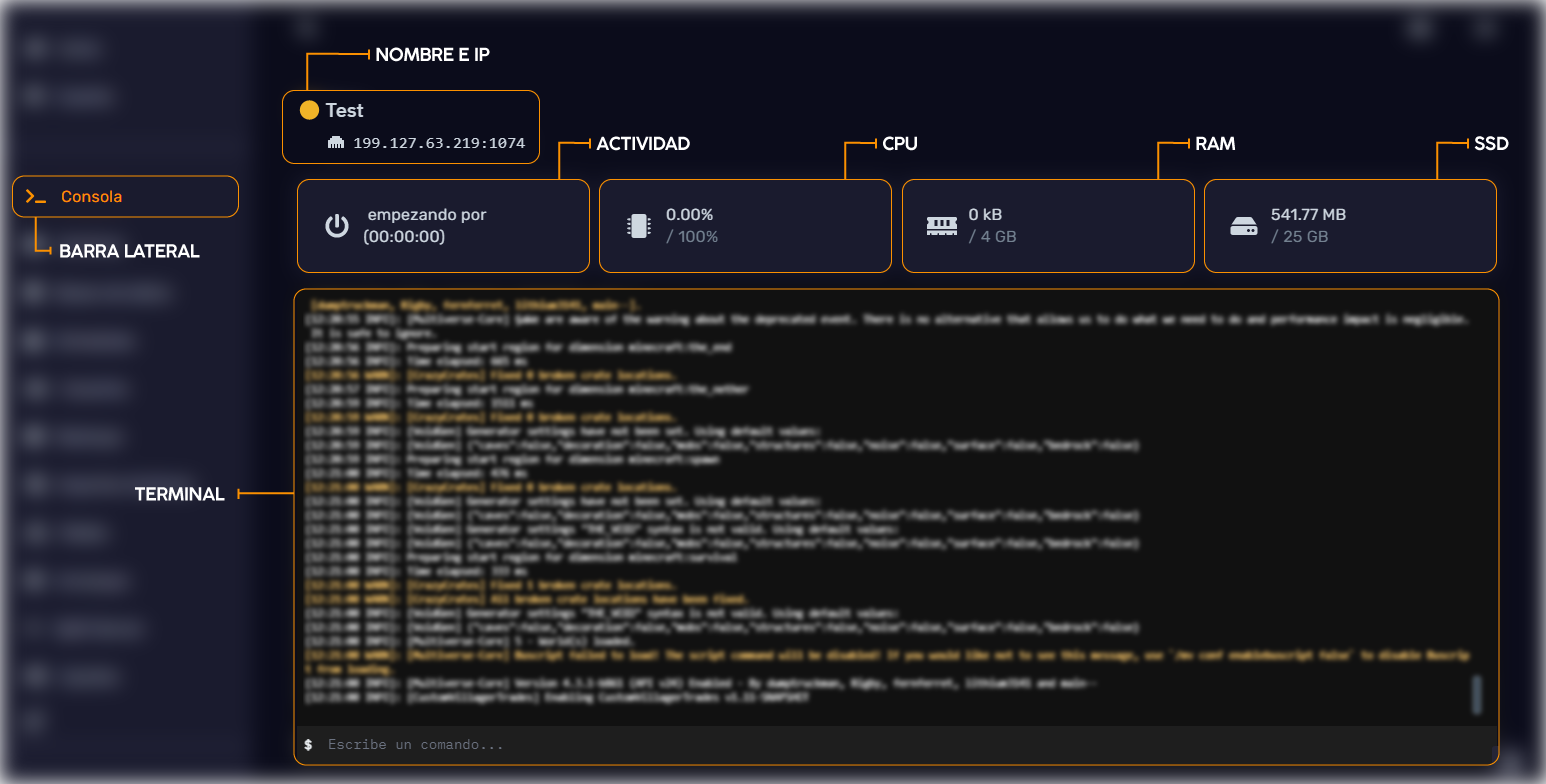
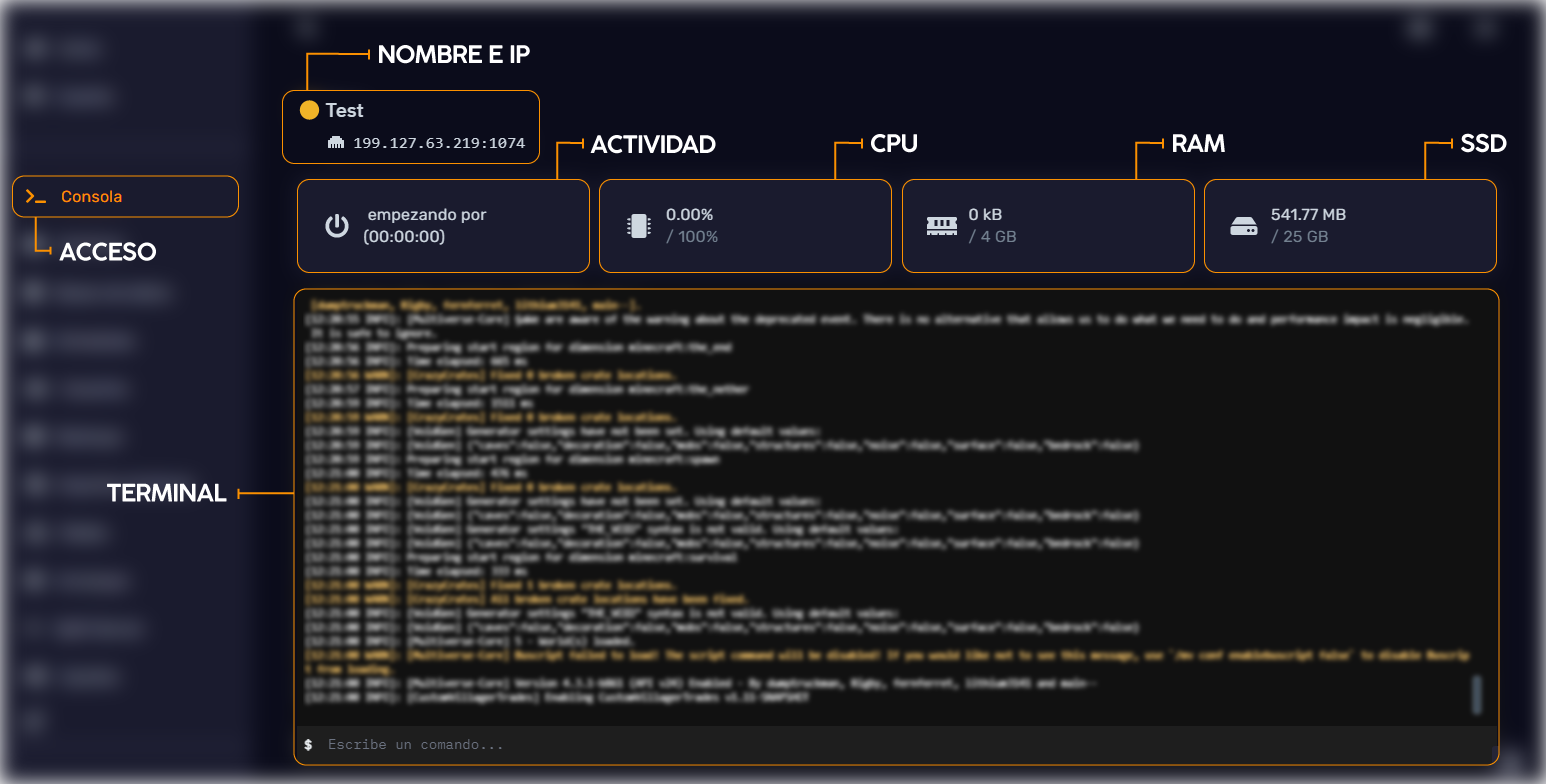
1.0.9

diff --git a/beepanel/console.md b/beepanel/console.md
@@ -9,21 +9,21 @@ slug: ./
 ![Image](/img/console.png)
 :::
 
-## 1 ─ Acceso
+## ─ Acceso
 Necesitamos dirigirnos a la barra lateral izquierda de nuestro panel, ahi ubicaremos la categoria `Consola`, al darle click accederemos a las caracteristicas de esta función.
 
-## 2 ─ Actividad
+## 1 ─ Actividad
 Nos muestra el estado y tiempo de actividad de nuestro servidor (en horas, minutos y segundos.)
 
 ![Activity](/img/activity.png)
 
 
-## 3 ─  Uso de CPU
+## 2 ─  Uso de CPU
 Una forma importante de ver el consumo de tu servidor es mediante el CPU, que esta representado en `Cantidad de hilos` x `100%`.
 
 ![CPU](/img/cpu.png)
 
-## 4 ─ Memoria RAM
+## 3 ─ Memoria RAM
 Una buena cantidad de RAM es importante si deseas que tu servidor guarde mas cosas y tenga acceso a ellas lo mas pronto posible, es por ello que ofrecemos planes con la cantidad adecuada para cada necesidad.
 
 :::tip ¿Alto consumo?
@@ -35,7 +35,7 @@ Una buena cantidad de RAM es importante si deseas que tu servidor guarde mas cos
 ![RAM](/img/ram.png)
 
 
-## 5 ─  Almacenamiento SSD
+## 4 ─  Almacenamiento SSD
 Es importante estar pendientes de la cantidad de espacio disponible con el que cuentes, ya que si lo excedes puede que tu servidor ya no guarde nuevos datos.
 
 ![SSD](/img/ssd.png)
